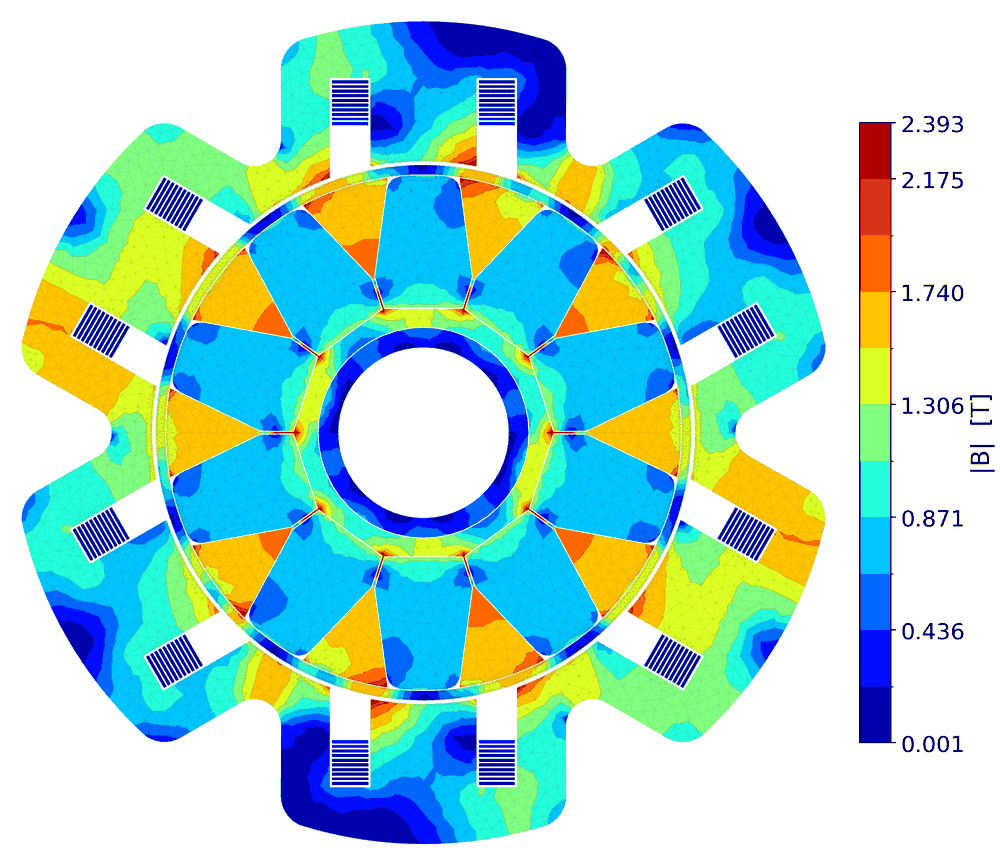
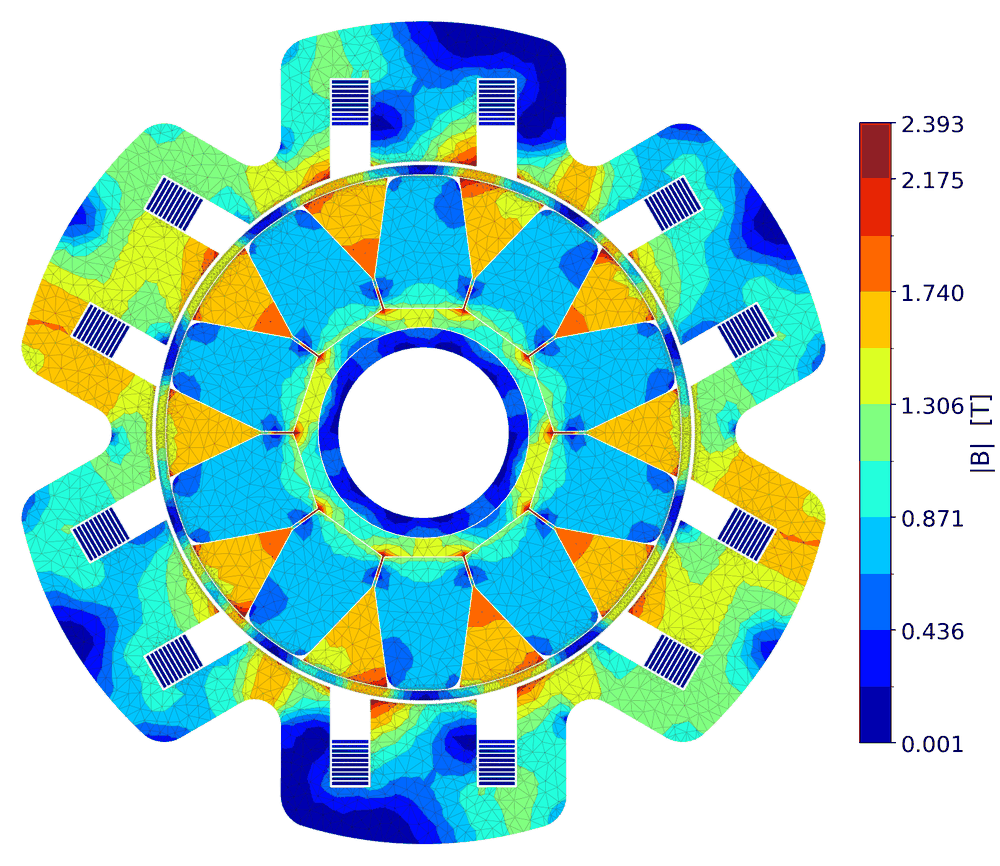
web: the FE mesh over all three landing pictures
User 2026-09-16, on the live cards: "add the mesh to these pictures".

It was there all along.  `report._map_png` draws the mesh by default and every
builder these three come from takes that default — but at the size a REPORT
places a figure its hairline (0.12 pt, alpha 0.35, #2b2b2b) reads as texture
over the field, and at ~442 px on a card it disappears.  The cards looked like
flat colour because the line had nowhere left to go.

So the weight of that ONE call is lifted, for these three pictures only:
`landing_images.mesh_weight` wraps `Axes.triplot` for the duration of a build
and substitutes 0.22 pt / alpha 0.55.  It is the only `triplot` in the builders
this script uses — the flux lines come from `tricontour` and the mode gallery
draws its outlines with a `LineCollection` — so it reaches the mesh and nothing
else.  report.py is untouched and still prints its own hairline; teaching
`_map_png` a line-weight argument would have put a landing-page concern in the
report.

The temperature map gets alpha 0.50 of its own.  Its stator is pale and its
rotor is one flat dark red, so the halves want opposite things: at 0.55 the
stator reads busy, at 0.38 the mesh vanishes inside the rotor altogether.

Edges do not double on the seam — the 180° replication merges coincident nodes
and `triplot` draws a triangulation's unique edge list, so the joint carries one
line like every other interior edge.  Checked on the rendered ring: no visible
[…]

diff --git a/web/src/components/landing/Landing.tsx b/web/src/components/landing/Landing.tsx
@@ -45,6 +45,13 @@
  * carry, and the seam nodes are merged so the ring closes with no hairline.
  * Nothing in report.py changes: the report still prints the half it solved.
  *
+ * WITH THE FE MESH OVER THEM (user 2026-09-16: "add the mesh to these
+ * pictures").  `report._map_png` has always drawn it — `mesh=True` is its
+ * default — but at the size a report places a figure its hairline is 0.12 pt at
+ * alpha 0.35, and on a 442 px card that disappears, so the first cards looked
+ * like flat colour.  The generator lifts the weight of that one call for these
+ * three pictures only; report.py still prints its own hairline.
+ *
  * They are drawn on white — the report's own background — and sit on a white
  * tile in both themes, so the figure looks the same here as it does on the page
  * it is printed on.
@@ -79,28 +86,33 @@ export const FEATURES: Feature[] = [
     src: '/landing/em-field.png',
     alt: 'Flux-density map of a permanent-magnet machine: the whole '
       + 'cross-section, twelve slots around ten magnets, coloured by |B| from '
-      + '0 to 2.4 tesla, with the colour bar beside it.',
-    hint: 'Flux density |B| of a 200 mm machine at its rated duty — the solved '
-      + 'half repeated to the full ring, which is the periodicity the solve '
-      + 'itself assumed.',
+      + '0 to 2.4 tesla, the finite-element mesh drawn over it, and the colour '
+      + 'bar beside it.',
+    hint: 'Flux density |B| of a 200 mm machine at its rated duty, with the FE '
+      + 'mesh it was solved on — the solved half repeated to the full ring, '
+      + 'which is the periodicity the solve itself assumed.',
   },
   {
     label: 'Thermal & duty cycle',
     src: '/landing/thermal-map.png',
     alt: 'Temperature map of the same whole cross-section, from 69 °C at the '
-      + 'outer housing to 135 °C in the rotor, with the colour bar beside it.',
-    hint: 'Temperature of the same machine, coupled to the losses of the same '
-      + 'run — the solved half repeated to the full ring, as above.',
+      + 'outer housing to 135 °C in the rotor, the finite-element mesh drawn '
+      + 'over it, and the colour bar beside it.',
+    hint: 'Temperature of the same machine with the FE mesh over it, coupled '
+      + 'to the losses of the same run — the solved half repeated to the full '
+      + 'ring, as above.',
   },
   {
     label: 'Mechanical simulation',
     src: '/landing/rotor-displacement.png',
     alt: 'Deformation map of the same rotor under its retaining sleeve: the '
       + 'whole ring — sleeve, magnets, rotor iron — coloured by how far each '
-      + 'point moves at speed, 7 to 146 micrometres, with the colour bar '
-      + 'beside it and the shape exaggerated so the bending is visible.',
-    hint: 'The rotor and its sleeve at speed, coloured by displacement |u| — '
-      + 'the shape is exaggerated 22x so the bending can be seen.',
+      + 'point moves at speed, 7 to 146 micrometres, the finite-element mesh '
+      + 'drawn over it, the colour bar beside it and the shape exaggerated so '
+      + 'the bending is visible.',
+    hint: 'The rotor and its sleeve at speed with the FE mesh over them, '
+      + 'coloured by displacement |u| — the shape is exaggerated 22x so the '
+      + 'bending can be seen.',
   },
 ];
 

diff --git a/scripts/landing_images.py b/scripts/landing_images.py
@@ -45,6 +45,26 @@ runs 68.93 to 135.2 degC.  That agreement is the check that the replication is
 faithful — if a rotation were wrong, the scale would move.  **Nothing in
 report.py changes**: the report still prints the half it solved.
 
+THE MESH, AT CARD SIZE (user 2026-09-16: "add the mesh to these pictures").
+`report._map_png` already draws it — `mesh=True` is its default, and every
+builder here takes that default, so the landing has always been showing the
+solved mesh.  At the size a REPORT places a figure, its hairline (0.12 pt,
+alpha 0.35, #2b2b2b) reads as texture over the field; at ~442 px on a card it
+disappears, which is why the first live cards looked like flat colour.
+
+So the weight of that ONE call is lifted for these three pictures, and only for
+them: :func:`mesh_weight` wraps `Axes.triplot` for the duration of a build and
+substitutes :data:`MESH_LW` / :data:`MESH_ALPHA` into it.  Nothing in report.py
+is touched and nothing outside this process changes — the report still prints
+its own hairline.  The thermal map gets the lighter alpha of the two
+(:data:`MESH_ALPHA_THERMAL`): most of it is dark red, and the weight that reads
+as texture over a pale field reads as ink over that one.  `--no-mesh` draws the
+fields bare, which is how the two styles get compared.
+
+Edges do not double on the seam: the replication merges coincident nodes, and
+`triplot` draws a triangulation's UNIQUE edge list, so the joint carries one
+line like every other interior edge.
+
 SIZE.  Each card places a picture at ~442 CSS px and the disc inside the
 1.25:1 box is height-limited to ~354 px, so 1000 device px covers a 2x screen
 with room to spare.  The palette steps down until the file clears
@@ -60,6 +80,7 @@ calls none::
 
     python scripts/landing_images.py            # rewrite web/public/landing/*.png
     python scripts/landing_images.py --check     # redraw elsewhere and compare
+    python scripts/landing_images.py --no-mesh   # the fields with no mesh over them
 
 ``--check`` writes nothing into the repo: it redraws into a temporary directory
 and reports, per file, whether the bytes still match what is committed.  A
@@ -73,8 +94,9 @@ import hashlib
 import io
 import sys
 import tempfile
+from contextlib import contextmanager
 from pathlib import Path
-from typing import Any, Dict, List, Optional, Tuple
+from typing import Any, Dict, Iterator, List, Optional, Tuple
 
 ROOT = Path(__file__).resolve().parents[1]
 sys.path.insert(0, str(ROOT / "src"))
@@ -95,6 +117,17 @@ TARGET_BYTES = 255 * 1024
 #: Device pixels across, for a picture placed at ~442 CSS px on a 2x screen.
 CARD_PX = 1000
 
+#: The mesh over the field, in points and alpha — see THE MESH above.  The
+#: report's own values are 0.12 / 0.35, which is right for a figure placed on a
+#: page and invisible on a 442 px card.
+MESH_LW = 0.22
+MESH_ALPHA = 0.55
+#: The temperature map gets its own value.  Its stator is pale and its rotor is
+#: one flat dark red, so the two halves of the picture want opposite things: at
+#: the other maps' 0.55 the stator reads busy, and at 0.38 the mesh vanishes
+#: inside the rotor altogether.  0.50 is where it is legible in both.
+MESH_ALPHA_THERMAL = 0.50
+
 DIE, CFG, DUTY = "CIANO10 200 opt", "L155 motor", "rated 1x9 mm"
 #: The width the figures are PLACED at, in cm.  `report.map_font_pt` sizes the
 #: colour-bar type from it, so one value here is one tick-label size on all
@@ -103,6 +136,38 @@ PLACE_CM = 12.0
 
 
 # ── the mesh ────────────────────────────────────────────────────────────────
+
+@contextmanager
+def mesh_weight(lw: float, alpha: float, on: bool = True) -> Iterator[None]:
+    """Draw `report._map_png`'s mesh at THIS weight, for as long as the block.
+
+    That one call is ``ax.triplot(tri, color="#2b2b2b", linewidth=0.12,
+    alpha=0.35)``, and it is the only `triplot` in the builders this script
+    uses — the mode gallery draws its outlines with a `LineCollection` and the
+    flux lines come from `tricontour`, so wrapping `triplot` reaches the mesh
+    and nothing else.  `on=False` suppresses the mesh entirely (``--no-mesh``).
+
+    A wrapper rather than an argument because `_map_png` does not take one, and
+    teaching it to would put a landing-page concern in the report.
+    """
+    import matplotlib.axes
+    original = matplotlib.axes.Axes.triplot
+
+    def patched(self: Any, *a: Any, **kw: Any) -> Any:
+        # Only the mesh call passes both — leave anything else exactly alone.
+        if "linewidth" in kw and "alpha" in kw:
+            if not on:
+                return []
+            kw["linewidth"], kw["alpha"] = lw, alpha
+        return original(self, *a, **kw)
+
+    matplotlib.axes.Axes.triplot = patched          # type: ignore[assignment]
+    try:
+        yield
+    finally:
+        matplotlib.axes.Axes.triplot = original     # type: ignore[assignment]
+
+
 
 def _xy(v: Any) -> np.ndarray:
     """Vertices as (N, 2), whichever way round the store wrote them."""
@@ -200,7 +265,7 @@ def encode(png: bytes, max_w: int = CARD_PX) -> bytes:
 
 # ── the three pictures ──────────────────────────────────────────────────────
 
-def build() -> Dict[str, bytes]:
+def build(mesh: bool = True) -> Dict[str, bytes]:
     """``{filename: png bytes}`` for the whole set."""
     out: Dict[str, bytes] = {}
 
@@ -210,8 +275,9 @@ def build() -> Dict[str, bytes]:
     print("em           %d sector(s)" % sectors_of(em["vertices"]))
     P, T, _n, tri = to_full(em["vertices"], em["triangles"], {},
                             {"b": em["b_mag_per_tri"], "tags": em["tags"]})
-    maps = report._em_maps({"P_mm": P, "T": T, "tags": tri["tags"],
-                            "b_mag": tri["b"]}, width_cm=PLACE_CM)
+    with mesh_weight(MESH_LW, MESH_ALPHA, on=mesh):
+        maps = report._em_maps({"P_mm": P, "T": T, "tags": tri["tags"],
+                                "b_mag": tri["b"]}, width_cm=PLACE_CM)
     if not maps.get("b"):
         raise SystemExit("the |B| map did not render")
     print("             |B| max %.3f T, bar capped at %.3f T"
@@ -225,10 +291,11 @@ def build() -> Dict[str, bytes]:
     P, T, node, tri = to_full(th["vertices"], th["triangles"],
                               {"t": th["temperature_per_node"]},
                               {"dom": th["domain_per_tri"]})
-    png = report._thermal_map({"field": {
-        "vertices": P, "triangles": T,
-        "temperature_per_node": node["t"], "domain_per_tri": tri["dom"],
-    }}, width_cm=PLACE_CM)
+    with mesh_weight(MESH_LW, MESH_ALPHA_THERMAL, on=mesh):
+        png = report._thermal_map({"field": {
+            "vertices": P, "triangles": T,
+            "temperature_per_node": node["t"], "domain_per_tri": tri["dom"],
+        }}, width_cm=PLACE_CM)
     if not png:
         raise SystemExit("the temperature map did not render")
     out["thermal-map.png"] = encode(png)
@@ -238,7 +305,8 @@ def build() -> Dict[str, bytes]:
     if rs is None:
         raise SystemExit("no rotor_stress field for this duty")
     print("rotor        %d sector(s)" % sectors_of((rs.get("field") or {})["vertices"]))
-    mech = report._mech_extra_maps(rs, width_cm=PLACE_CM)
+    with mesh_weight(MESH_LW, MESH_ALPHA, on=mesh):
+        mech = report._mech_extra_maps(rs, width_cm=PLACE_CM)
     if not mech.get("disp"):
         raise SystemExit("the displacement map did not render "
                          "(this duty stored no u_mag_per_node)")
@@ -249,28 +317,35 @@ def build() -> Dict[str, bytes]:
 
 def main(argv: List[str]) -> int:
     check = "--check" in argv[1:]
-    unknown = [a for a in argv[1:] if a != "--check"]
+    mesh = "--no-mesh" not in argv[1:]
+    unknown = [a for a in argv[1:] if a not in ("--check", "--no-mesh")]
     if unknown:
         raise SystemExit("unknown argument(s): %s" % " ".join(unknown))
 
-    pics = build()
-    dest = Path(tempfile.mkdtemp(prefix="landing-check-")) if check else OUT_DIR
+    pics = build(mesh=mesh)
+    # A bare-field run is a comparison, not the shipped set: it never writes
+    # into the repo, whether or not --check was asked for.
+    dest = (Path(tempfile.mkdtemp(prefix="landing-check-"))
+            if (check or not mesh) else OUT_DIR)
     dest.mkdir(parents=True, exist_ok=True)
 
     same = True
     for name, data in pics.items():
-        (dest / name).write_bytes(data)
+        # READ THE COMMITTED BYTES FIRST.  Writing before comparing made the
+        # write mode report "unchanged" for every file, always — it was
+        # comparing the picture with the copy of itself it had just saved.
         live = OUT_DIR / name
         old = live.read_bytes() if live.exists() else b""
+        (dest / name).write_bytes(data)
         match = (hashlib.sha256(old).digest() == hashlib.sha256(data).digest())
         same = same and match
         print("%-24s %6.0f KB  %s" % (
             name, len(data) / 1024,
             "unchanged" if match else ("DIFFERS from the committed file"
                                        if old else "new")))
-    if check:
+    if dest is not OUT_DIR:
         print("\nredrawn into %s (nothing in the repo was touched)" % dest)
-        return 0 if same else 1
+        return 0 if (same or not mesh) else 1
     return 0
 
 
